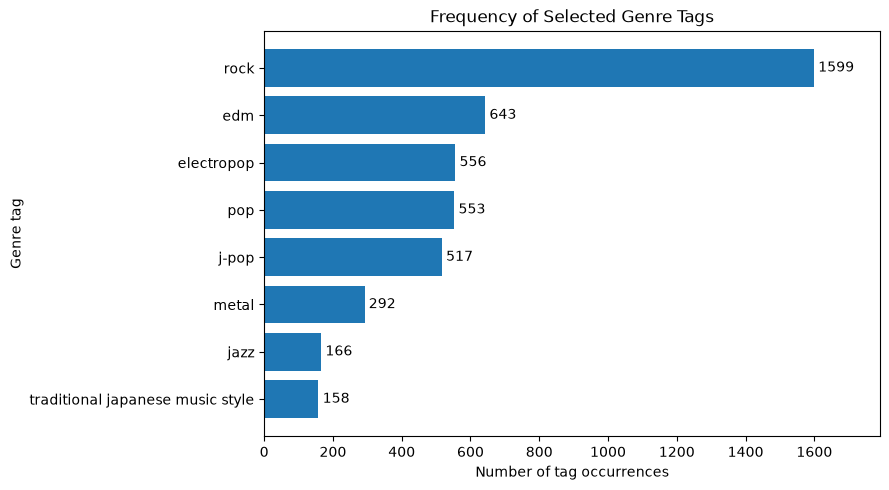
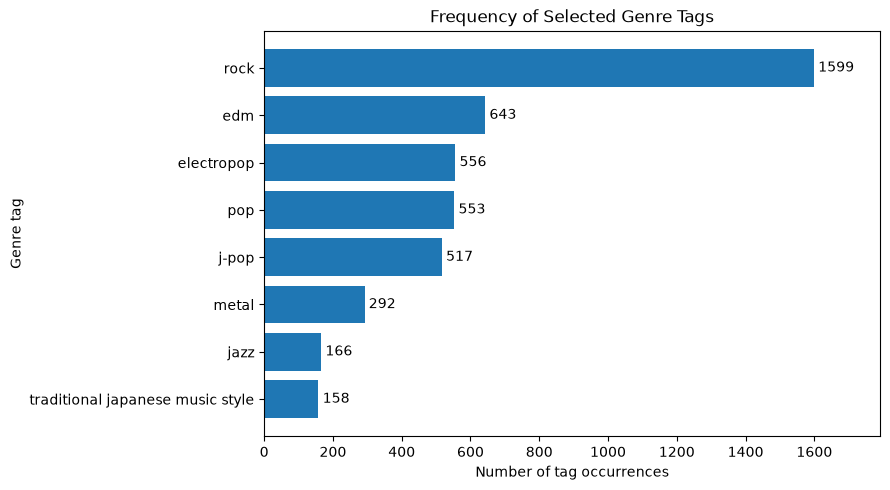
added header comments for vocal_synth

diff --git a/vocal_synth.py b/vocal_synth.py
@@ -1,16 +1,32 @@
+"""
+Neha Matthew & Esther Wong
+CSE 163 AE
+This file analyses data and provides statistics from songs.csv,
+particularly for the vocal synthesizers found in the dataset.
+"""
 import pandas as pd
 import matplotlib.pyplot as plt
 
 
 VOCALOIDS = ["Kagamine Rin", "Kasane Teto", "GUMI"]
 
+
 def get_vocaloid(vocaloid):
+    """
+    For a given vocal synthesizer, determines if it matches any
+    vocal synthesizer in the selected list. If it matches,
+    it returns the a string for the general name for the vocal synthesizer.
+    """
     for voca in VOCALOIDS:
         if vocaloid.lower().find(voca.lower()) != -1:
             return voca
 
 
 def get_voca_count(songs):
+    """
+    For a given dataset, returns a pandas series containing the count
+    of selected vocal synthesizers in a song.
+    """
     valid_data = songs["vocaloid"].dropna()
     vocaloid_count = {}
 
@@ -32,35 +48,48 @@ def get_voca_count(songs):
 
 
 def count_per_year(songs):
+    """
+    For a given dataset, returns a pandas dataframe of the counts
+    of selected vocal synthesizers for each year.
+    """
     valid_data = songs[["year", "vocaloid"]].dropna()
     voca_count_year = valid_data.groupby("year").apply(get_voca_count)
 
-    #print(voca_count_year)
     return voca_count_year
 
 
 def total_counts(songs):
+    """
+    For a given dataset, finds and returns a dictionary of the total counts of
+    selected vocal synthesizers.
+    """
     counts = count_per_year(songs).reset_index()
     total = {}
     for vocaloid in VOCALOIDS:
         total[vocaloid] = counts[vocaloid].sum()
 
-    print(total)
     return total
 
+
 def share_per_year(songs):
+    """
+    For a given dataset, returns a pandas dataframe of the share
+    of selected vocal synthesizers for each year.
+    """
     valid_data = songs[["year", "vocaloid"]].dropna()
     voca_share_year = valid_data.groupby("year").apply(get_voca_count)
     total_songs = valid_data.groupby("year").count()
     for vocaloid in VOCALOIDS:
-        voca_share_year[vocaloid] = (100 * voca_share_year[vocaloid] 
-                                    / total_songs["vocaloid"])
+        voca_share_year[vocaloid] = (100 * voca_share_year[vocaloid]
+                                     / total_songs["vocaloid"])
 
-    print(voca_share_year)
     return voca_share_year
 
 
 def plot_total_counts(songs):
+    """
+    Plots a graph for the total counts of selected vocal synthesizers.
+    """
     data = pd.Series(total_counts(songs))
     fig, ax = plt.subplots(1)
 
@@ -70,7 +99,11 @@ def plot_total_counts(songs):
     plt.title("Selected Vocal Synthesizers Total Count")
     plt.savefig("vocal_synth_counts.png", bbox_inches="tight")
 
+
 def plot_count_per_year(songs):
+    """
+    Plots a graph for the counts per year for selected vocal synthesizers.
+    """
     data = count_per_year(songs).reset_index()
     # data = data.set_index("year")
     fig, ax = plt.subplots(1)
@@ -81,15 +114,34 @@ def plot_count_per_year(songs):
     plt.xticks(data["year"], rotation=45)
     plt.title("Selected Vocal Synthesizers Count by Year")
 
+    plt.savefig("vocal_synth_count_year.png", bbox_inches="tight")
 
-    plt.savefig("vocal_synth_trends.png", bbox_inches="tight")
+
+def plot_share_per_year(songs):
+    """
+    Plots a graph for the share per year for selected vocal synthesizers.
+    """
+    data = share_per_year(songs).reset_index()
+    # data = data.set_index("year")
+    fig, ax = plt.subplots(1)
+
+    data.plot(ax=ax, x="year")
+    plt.xlabel("Published Year")
+    plt.ylabel("Songs with Synthesizer(%)")
+    plt.xticks(data["year"], rotation=45)
+    plt.title("Selected Vocal Synthesizers Share by Year")
+
+    plt.savefig("vocal_synth_share_year.png", bbox_inches="tight")
 
 
 def main():
     songs = pd.read_csv("songs.csv")
-    total_counts(songs)
+    print(total_counts(songs))
+    print(count_per_year(songs))
+    print(share_per_year(songs))
     plot_count_per_year(songs)
     plot_total_counts(songs)
+    plot_share_per_year(songs)
 
 
 if __name__ == "__main__":
